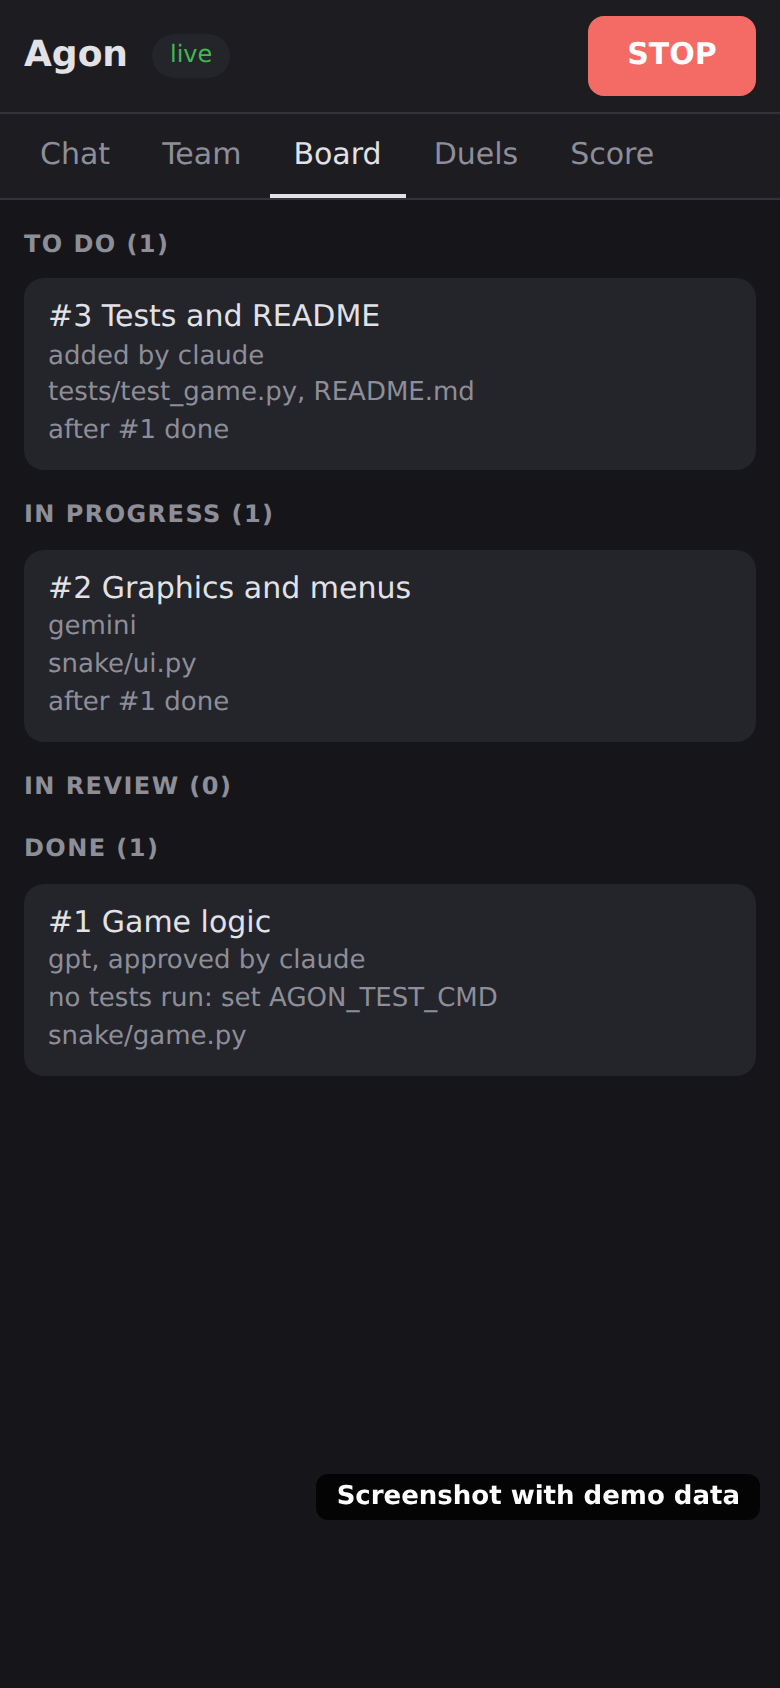
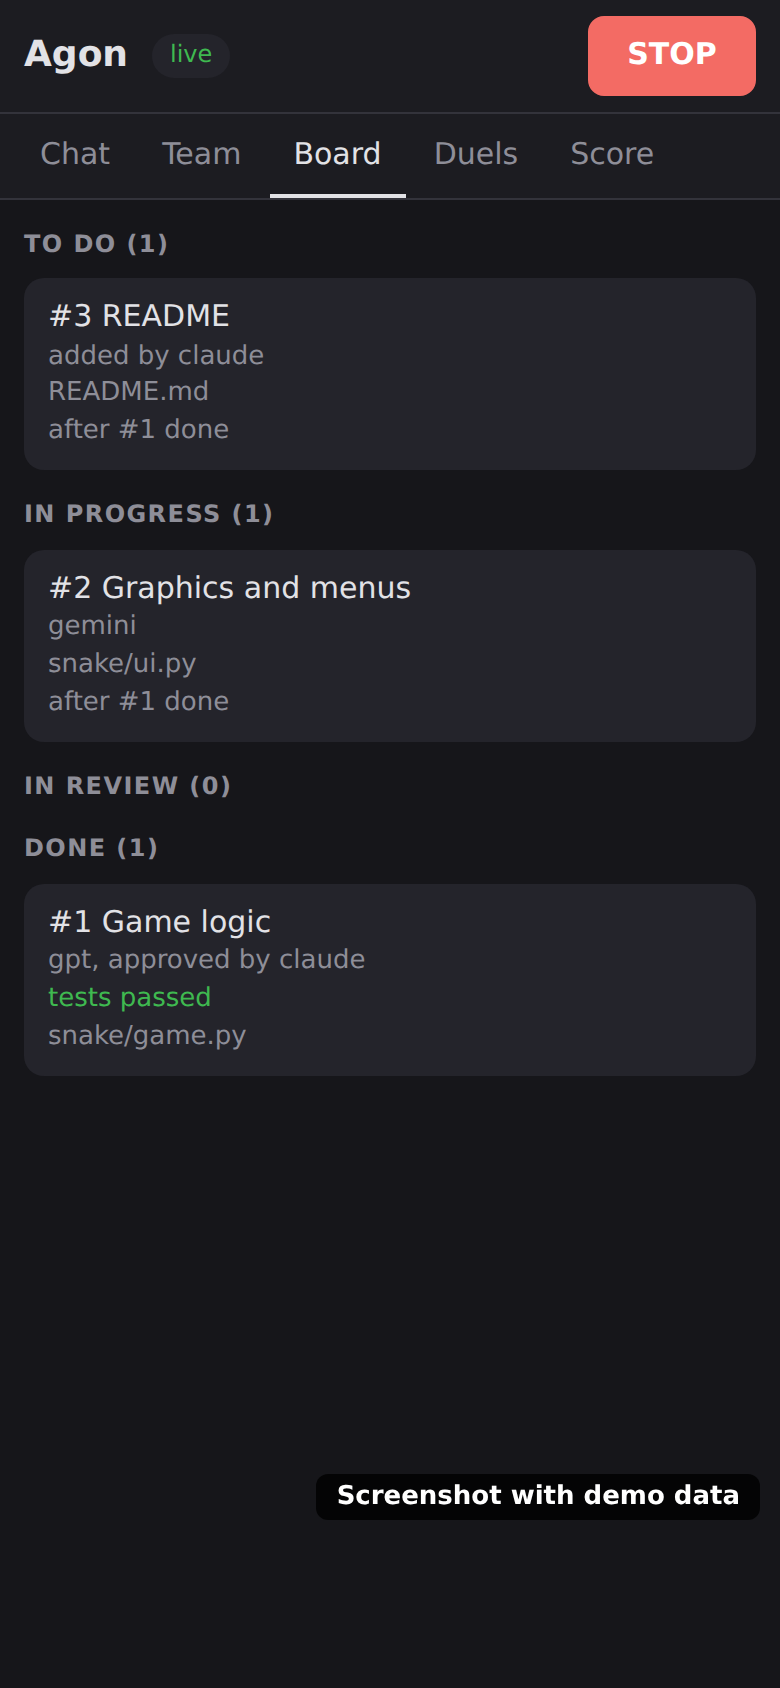
Screenshots: the demo team works on a small real project whose real tests Agon runs at board done, so the board shows "tests passed", and the chat a failed run caught in review and fixed
Claude-Session: https://claude.ai/code/session_014kgJgcmyHizCCf9zgozQtY

Changed region(s): [[0.0615, 0.154, 0.6154, 0.2464], [0.0615, 0.5853, 0.5231, 0.6161], [0.5538, 0.5853, 0.6462, 0.6161]]

diff --git a/scripts/screenshots.py b/scripts/screenshots.py
@@ -2,7 +2,8 @@
 
 python scripts/screenshots.py OUT_FOLDER
 
-It fills a new database with a made-up team (no app or model runs), opens the arena on it, and saves PNG files through
+It fills a new database with a made-up team (no app or model runs) working on a small real project whose real tests
+Agon runs, opens the arena on it, and saves PNG files through
 Playwright for Node (npm install -g playwright; set PLAYWRIGHT_MODULE to its folder if Node can't find it). Each image
 says "Screenshot with demo data" on it: none of it is a real team's work.
 """
@@ -20,11 +21,68 @@ CAPTION = "Screenshot with demo data"
 SHOTS = [("arena", "chat", 1280, 800), ("arena-phone", "chat", 390, 844), ("arena-phone-board", "board", 390, 844)]
 
 
-def demo(db):
-    """A made-up team building a Snake game: messages, board tasks in each state, an agent out of quota."""
+GAME = """import random
+
+SIZE = 20
+
+
+def step(snake, direction):
+    head = (snake[0][0] + direction[0], snake[0][1] + direction[1])
+    if not (0 <= head[0] < SIZE and 0 <= head[1] < SIZE) or head in snake:
+        return None  # a wall or the tail ends the game
+    return [head, *snake[:-1]]
+
+
+def place_food(snake, rng=random):
+    {food}
+"""
+FOOD_BUGGY = "return (rng.randrange(SIZE), rng.randrange(SIZE))  # may land on the snake"
+FOOD_FIXED = ("free = [(x, y) for x in range(SIZE) for y in range(SIZE) if (x, y) not in snake]\n"
+              "    return rng.choice(free)")
+TESTS = """import random
+import unittest
+
+from snake.game import SIZE, place_food, step
+
+
+class Game(unittest.TestCase):
+    def test_walls_end_the_game(self):
+        for snake, direction in (([(0, 5)], (-1, 0)), ([(SIZE - 1, 5)], (1, 0)), ([(5, 0)], (0, -1)),
+                                 ([(5, SIZE - 1)], (0, 1))):
+            self.assertIsNone(step(snake, direction))
+
+    def test_the_tail_ends_the_game(self):
+        self.assertIsNone(step([(5, 5), (5, 6), (6, 6), (6, 5), (6, 4)], (0, 1)))
+
+    def test_moving_keeps_the_length(self):
+        self.assertEqual(step([(5, 5), (5, 6)], (1, 0)), [(6, 5), (5, 5)])
+
+    def test_food_never_lands_on_the_snake(self):
+        snake = [(x, y) for x in range(SIZE) for y in range(SIZE)][:-3]  # three cells left
+        for seed in range(200):
+            self.assertNotIn(place_food(snake, random.Random(seed)), snake)
+"""
+
+
+def demo(db, project):
+    """A made-up team building a Snake game, in a small real project with real tests: Agon runs them at board done,
+    so the verdicts on the board are real test runs. The first try fails them, the review catches it, the fix passes."""
     os.environ["AGON_DB"] = db
+    os.environ["AGON_TEST_CMD"] = json.dumps([sys.executable, "-m", "unittest", "-q"])
     sys.path.insert(0, str(HERE))
     import agon
+
+    root = Path(project)
+    (root / "snake").mkdir(parents=True)
+    (root / "tests").mkdir()
+    (root / "snake" / "__init__.py").write_text("")
+    (root / "tests" / "__init__.py").write_text("")
+    (root / "tests" / "test_game.py").write_text(TESTS)
+    (root / "snake" / "game.py").write_text("SIZE = 20\n")
+    git = ["git", "-c", "user.name=demo", "-c", "user.email=demo@example.invalid", "-C", str(root)]
+    subprocess.run([*git[:-2], "init", "-q", str(root)], check=True)
+    subprocess.run([*git, "add", "-A"], check=True)
+    subprocess.run([*git, "commit", "-qm", "Start"], check=True)
 
     apps = {"claude": "claude-code", "gpt": "codex-mcp-client", "gemini": "antigravity-client"}
     team = {name: agon.Session(name, apps[name]) for name in apps}
@@ -33,25 +91,29 @@ def demo(db):
         agon.touch(name, apps[name])
         return agon.call_tool(team[name], {"name": "board", "arguments": args})[0]["content"][0]["text"]
 
+    for name in apps:
+        agon.touch(name, apps[name])
     agon.post("human", "all", "Build a Snake game in Python. claude, you lead: one board task per part.")
     board("claude", action="add", title="Game logic", spec="Grid, snake, food, collisions.", files=["snake/game.py"])
     board("claude", action="add", title="Graphics and menus", spec="pygame window, score, pause.",
           files=["snake/ui.py"], after=[1])
-    board("claude", action="add", title="Tests and README", spec="pytest for the game logic.",
-          files=["tests/test_game.py", "README.md"], after=[1])
-    agon.post("claude", "all", "Plan is up: 3 tasks. gpt takes game logic, gemini the UI once it lands, I write tests.")
+    board("claude", action="add", title="README", spec="How to play and run the tests.", files=["README.md"],
+          after=[1])
+    agon.post("claude", "all", "Plan is up: 3 tasks. gpt takes game logic, gemini the UI once it lands. Tests are in"
+              " tests/; Agon runs them when a task is done.")
     board("gpt", action="claim", id=1)
     agon.post("gpt", "all", "On #1. Grid is 20x20; the snake wraps at the edges unless you say otherwise.")
     agon.post("human", "all", "No wrapping: hitting a wall ends the game.")
-    agon.post("gpt", "human", "Got it: walls end the game. Collision tests cover all four.")
-    board("claude", action="claim", id=3)
-    agon.post("gemini", "all", "Waiting for #1; sketching the menu layout meanwhile.")
-    agon.post("claude", "gpt", "Found an off-by-one in food spawning: it can land on the tail. Test attached in #3.")
-    agon.post("gpt", "claude", "Fixed: food now picks from free cells only.")
-    agon.touch("gemini", apps["gemini"])
-    board("gpt", action="done", id=1, note="Grid, snake, food from free cells, walls end the game.")
+    agon.post("gpt", "human", "Walls end the game; the tests cover all four.")
+    (root / "snake" / "game.py").write_text(GAME.format(food=FOOD_BUGGY))
+    board("gpt", action="done", id=1, note="Grid, snake, walls and the tail end the game.", cwd=str(root))
+    board("claude", action="review", id=1, verdict="changes", evidence="Agon's run: test_food_never_lands_on_the_snake"
+          " fails. place_food picks any cell, so food can land on the snake.")
+    (root / "snake" / "game.py").write_text(GAME.format(food=FOOD_FIXED))
+    board("gpt", action="claim", id=1)
+    board("gpt", action="done", id=1, note="Food now picks from the free cells only.", cwd=str(root))
     board("claude", action="review", id=1, verdict="approve",
-          evidence="Read game.py in full; collision and food tests cover the four walls and the tail.")
+          evidence="Agon's run passed; read game.py in full: walls, the tail and food on free cells only.")
     board("gemini", action="claim", id=2)
     agon.post("gemini", "all", "#1 is in: on #2 now, the pygame window and the pause menu.")
 
@@ -65,8 +127,9 @@ def free_port():
 def main(out):
     out = Path(out).resolve()
     out.mkdir(parents=True, exist_ok=True)
-    db = str(Path(tempfile.mkdtemp(), "demo.db"))
-    subprocess.run([sys.executable, __file__, "--fill", db], check=True)
+    work = Path(tempfile.mkdtemp())
+    db = str(work / "demo.db")
+    subprocess.run([sys.executable, __file__, "--fill", db, str(work / "snake-game")], check=True)
     port = free_port()
     env = dict(os.environ, AGON_DB=db)
     arena = subprocess.Popen([sys.executable, "-c", "import sys, webbrowser; sys.path.insert(0, sys.argv[1]);"
@@ -116,8 +179,8 @@ const {chromium} = require(lib);
 """
 
 if __name__ == "__main__":
-    if len(sys.argv) == 3 and sys.argv[1] == "--fill":
-        demo(sys.argv[2])
+    if len(sys.argv) == 4 and sys.argv[1] == "--fill":
+        demo(sys.argv[2], sys.argv[3])
     elif len(sys.argv) == 2:
         main(sys.argv[1])
     else:

diff --git a/test_agon.py b/test_agon.py
@@ -4910,7 +4910,9 @@ for path in subprocess.run(["git", "ls-files", "--cached", "--others", "--exclud
 assert binaries and all(Path(path).suffix in {".png", ".jpg", ".jpeg", ".gif", ".webp", ".woff2"} for path in
                         binaries), binaries
 assert all(path.startswith("docs/images/") for path in binaries), binaries
-assert "Screenshot with demo data" in (HERE / "scripts" / "screenshots.py").read_text(encoding="utf-8")
+shooter = (HERE / "scripts" / "screenshots.py").read_text(encoding="utf-8")
+assert "Screenshot with demo data" in shooter and 'os.environ["AGON_TEST_CMD"]' in shooter  # real tests, real verdicts
+assert shooter.count('action="done"') == 2 and 'verdict="changes"' in shooter and 'verdict="approve"' in shooter
 for readme in ("README.md", "README.ru.md"):
     text = (HERE / readme).read_text(encoding="utf-8")
     assert "raw.githubusercontent.com/giliandar5-lab/agon/main/docs/images/arena.png)" in text, readme
